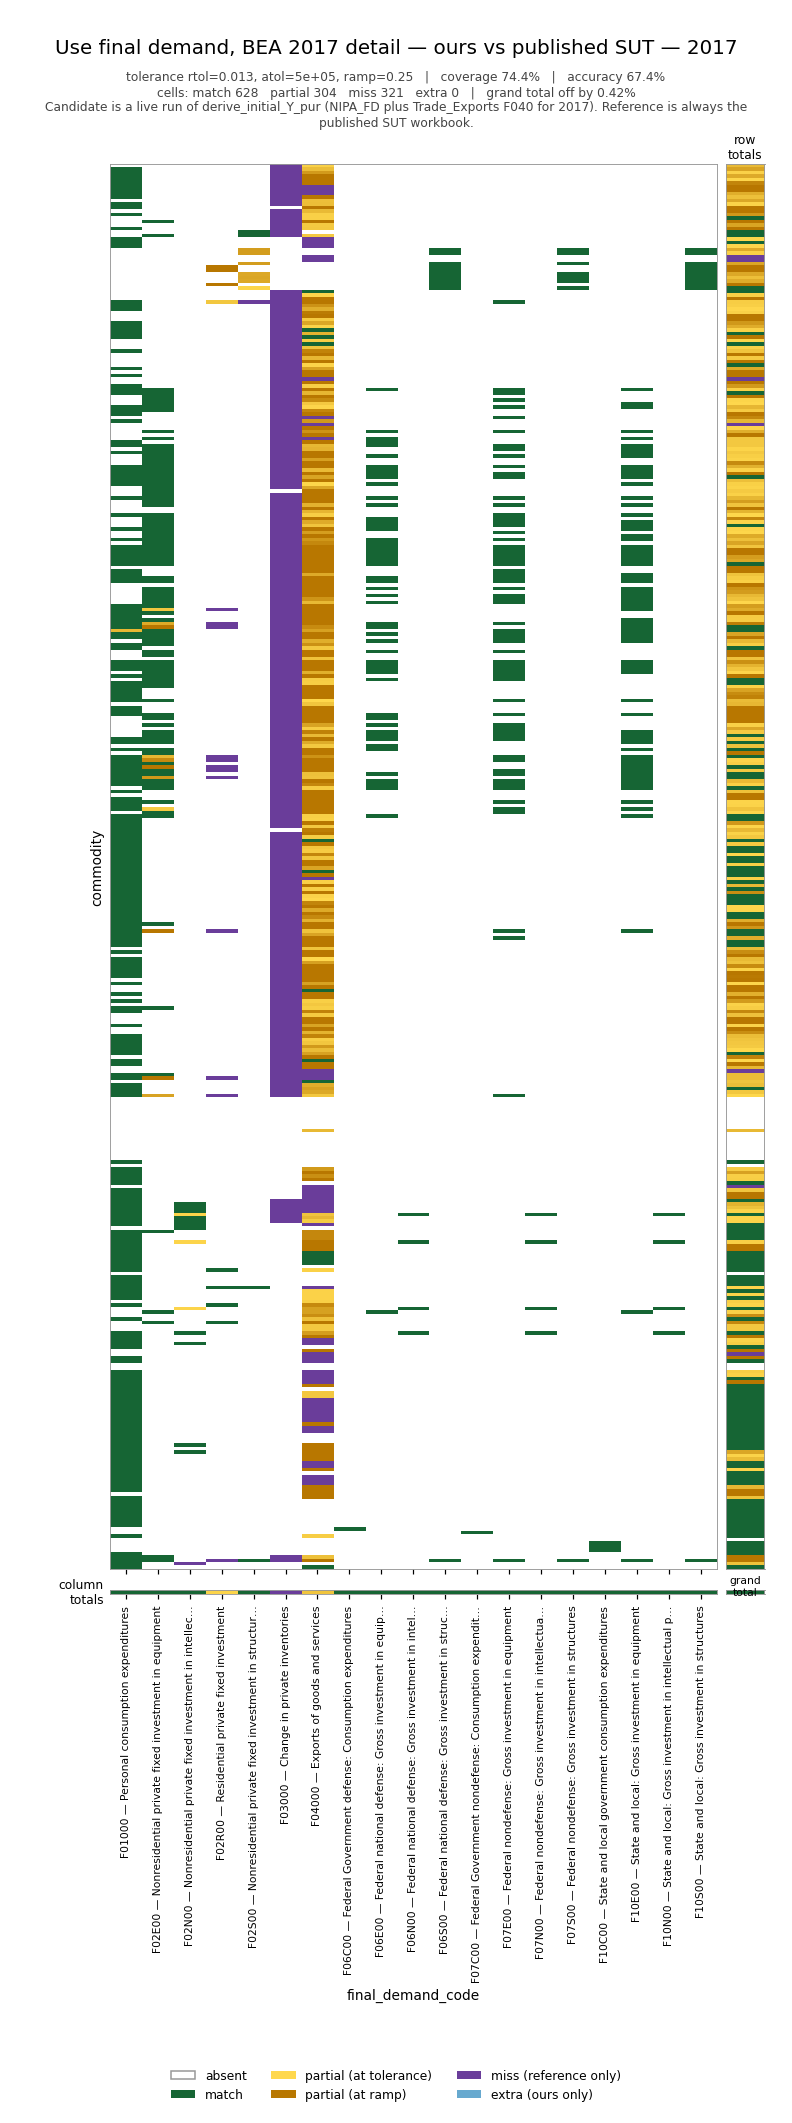
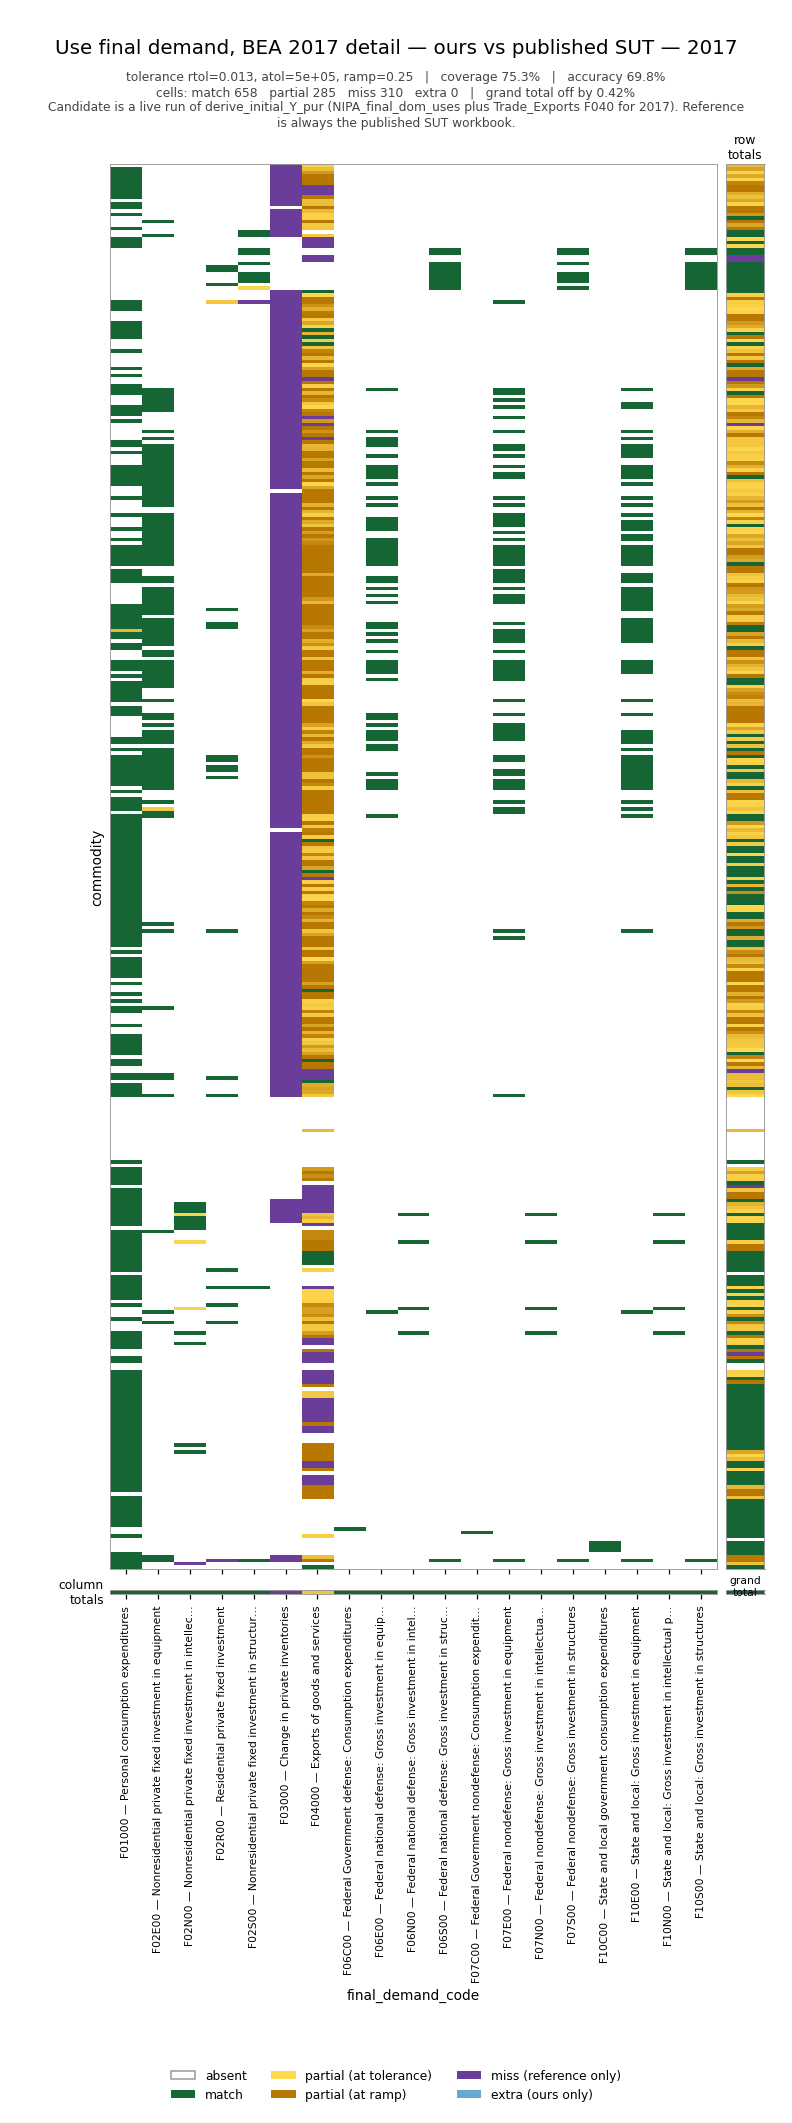
Refresh the progress report on this week's Step 1 fixes
Regenerated from bedrock.analysis.nowcasting.plots. Step 1 coverage 74.4% ->
75.3%, accuracy 67.4% -> 69.8%, and column totals outside tolerance 3 -> 2.

F02R00 came inside tolerance, so the only final-demand columns still out are
F03000 (unsourced, #529) and F04000 (trade, +6.15%, #528). Everything else in
the block now reconciles at the column level, and the twelve government columns
land cell for cell.

Three fixes did it, all the same failure mode - a column total that looked right
while the value sat on the wrong commodity: S00402 unreachable in the government
columns (#633), ten structures lines mapped to a catch-all instead of the single
commodity each names (#576), and residential equipment routed to F02E00 when
U50505 line 46 sits under the residential branch (#547).

That shared signature is worth the report saying out loud, because it is an
argument for the diagnostic existing: none of the three was visible from a
column total, and the row strip is what exposed all of them. The report now
makes that link rather than leaving the row/column disagreement as an
observation.

Also records that the ten worst remaining cells are all F04000, so with the
NIPA-sourced columns reconciled the residual Step 1 error is concentrated in
trade and the unbuilt inventories column. And notes that F01000's remaining
amber is bridge-vs-Use disagreement rather than attribution error - it
reproduces BEA_PCEBridge cell for cell.
[…]

diff --git a/bedrock/analysis/nowcasting/progress_report.md b/bedrock/analysis/nowcasting/progress_report.md
@@ -21,7 +21,7 @@ uv run python -m bedrock.analysis.nowcasting.plots \
 
 | block | step | shape | reference populates | reference total | candidate | coverage | accuracy |
 |---|---|---|---:|---:|---|---:|---:|
-| `use_fd_detail_sut` | 1 — final demand | 402 × 19 | 1,253 cells | $22.24T | live | **74.4%** | **67.4%** |
+| `use_fd_detail_sut` | 1 — final demand | 402 × 19 | 1,253 cells | $22.24T | live | **75.3%** | **69.8%** |
 | `use_va_detail_sut` | 2 — value added | 3 × 402 | 1,189 cells | $18.92T | *none yet* | — | — |
 | `supply_bridge_detail_sut` | 4 — supply bridge | 402 × 12 | 3,202 cells | $111.28T | live (MCIF) | **8.5%** | **8.9%** |
 
@@ -44,14 +44,14 @@ corresponding step is built.
 
 | scope | absent | match | partial | miss | extra |
 |---|---:|---:|---:|---:|---:|
-| cells | 6,385 | 628 | 304 | 321 | 0 |
-| row totals | 22 | 116 | 257 | 7 | 0 |
-| column totals | 0 | 16 | 2 | 1 | 0 |
+| cells | 6,385 | 658 | 285 | 310 | 0 |
+| row totals | 22 | 125 | 248 | 7 | 0 |
+| column totals | 0 | 17 | 1 | 1 | 0 |
 
 | | |
 |---|---:|
-| coverage | 74.4% |
-| accuracy | 67.4% |
+| coverage | 75.3% |
+| accuracy | 69.8% |
 | candidate grand total | $22.33T |
 | reference grand total | $22.24T |
 | grand total error | 0.42% |
@@ -59,11 +59,19 @@ corresponding step is built.
 
 ### What the picture says that the totals do not
 
-**One whole column is `miss`:** `F03000` (change in private inventories, #529). `F04000` is populated from `Trade_Exports_2017` and is `partial` at the column total (+6.15% vs published). `F02R00` is the other column total outside tolerance.
+**Only two column totals are outside tolerance, and both are known.** `F03000` (change in private inventories, #529) is a whole-column `miss` — unsourced. `F04000` is populated from `Trade_Exports_2017` and is `partial` (+6.15% vs published, #528). **Every other final-demand column now reconciles at the column level**, including the twelve government columns, which land cell for cell.
 
-**The two axes disagree, which is the point.** 264 of 402 row totals are outside tolerance against 3 of 19 column totals — a column total can be right in aggregate while its commodity split is wrong, and only the row strip shows it.
+**The two axes disagree, which is the point.** 255 of 402 row totals are outside tolerance against 2 of 19 column totals — a column total can be right in aggregate while its commodity split is wrong, and only the row strip shows it. That gap is not a curiosity: all three fixes below were column totals that looked right while the value sat on the wrong commodity, and the row strip is what exposed them.
 
-**`F01000` is mostly `match`.** Personal consumption is the densest live column. Remaining amber is per-commodity split, not a missing column.
+**What moved since 2026-08-06** — coverage 74.4% → 75.3%, accuracy 67.4% → 69.8%, column totals outside tolerance 3 → 2. `F02R00` came inside tolerance on three fixes sharing that one failure mode:
+
+- **`S00402` was unreachable in the government columns** ([#633](https://github.com/cornerstone-data/bedrock/issues/633)) — missing from two crosswalks, one supplying the attribution weight and one the receiving set, so fixing either alone changed nothing. `F10E00` had been misallocating 32.8% of its column.
+- **Ten structures lines mapped to a catch-all** rather than the single commodity each names ([#576](https://github.com/cornerstone-data/bedrock/issues/576)) — $142B on the wrong commodity inside `F02R00`, netting to exactly zero.
+- **Residential equipment was routed to `F02E00`** ([#547](https://github.com/cornerstone-data/bedrock/issues/547)) — U50505 line 46 sits under the residential branch, so its 15,025 belongs in `F02R00`. `F02E00` is *nonresidential* equipment.
+
+**Row totals are now dominated by `F04000`.** The ten worst cells are all trade: `336411`, `S00402`, `336412`, `339910`. With the NIPA-sourced columns reconciled, the remaining Step 1 error is concentrated in the trade column and the unbuilt inventories column.
+
+**`F01000` is mostly `match`.** Personal consumption is the densest live column. Remaining amber is per-commodity split, not a missing column — and it is genuine bridge-vs-Use disagreement rather than attribution error: `F01000` reproduces `BEA_PCEBridge` cell for cell, with the totals agreeing to $2M.
 
 **`F04000` is mixed `partial` / `miss`.** National mass is close enough to turn the column total amber rather than purple; commodity holes (`492000`, `550000`, and the rest of the ≥1 B USD list) are in [`transform/trade/README.md`](../../transform/trade/README.md).
 
